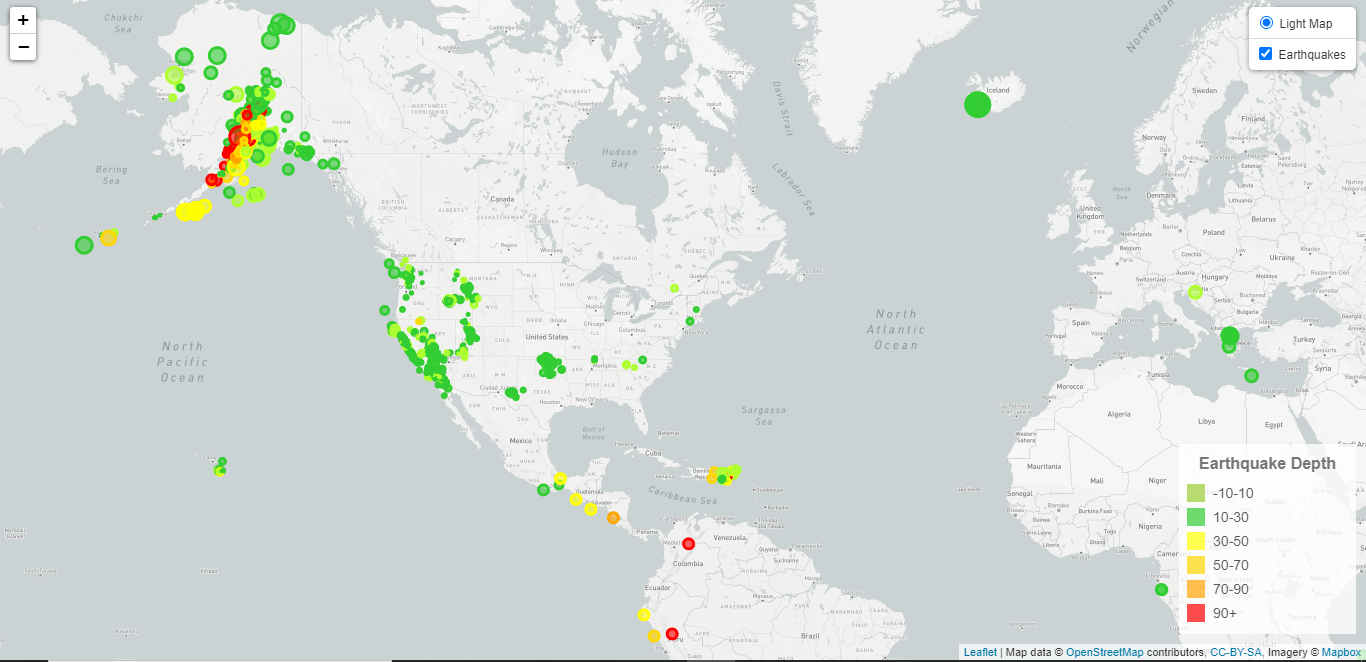
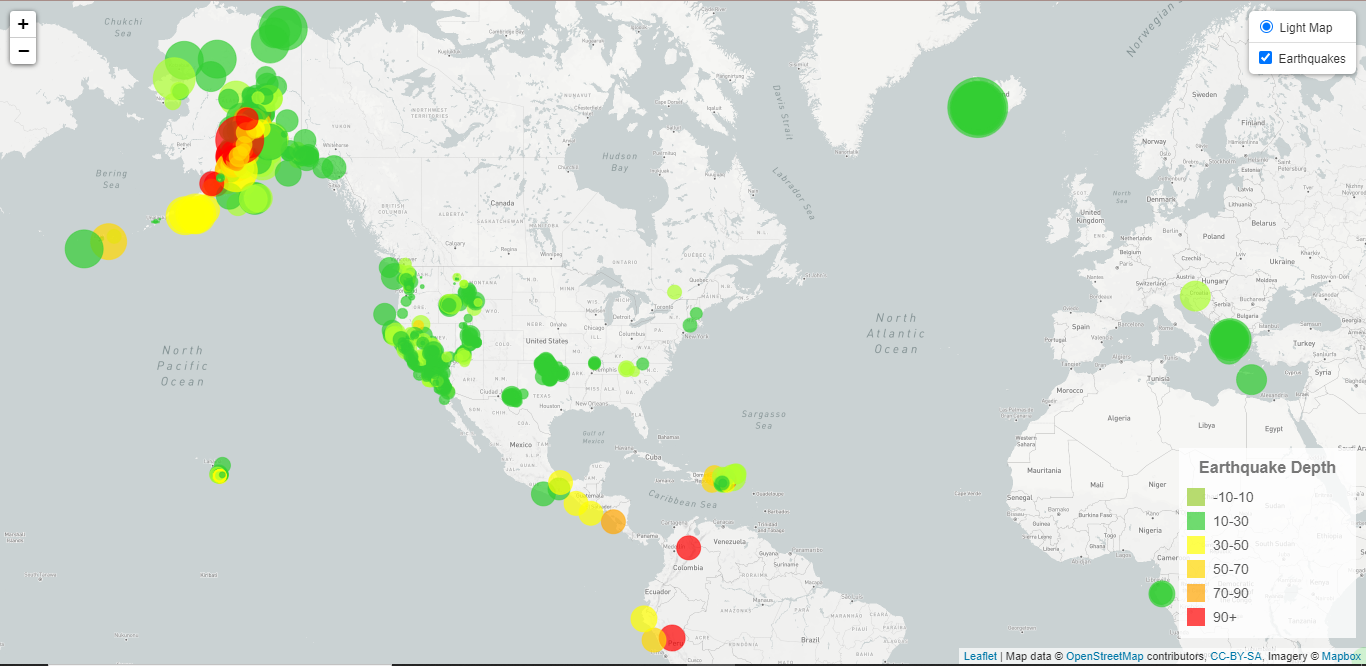
leaflet 2

diff --git a/Leaflet-Step-1/static/js/logic.js b/Leaflet-Step-1/static/js/logic.js
@@ -101,10 +101,12 @@ function createCircles(response) {
       // For each station, create a marker and bind a popup with the place name
       
       var circle = L.circle([earth[1], earth[0]] , {
-                   fillOpacity: .6,
+                   fillOpacity: .7,
                    color: chooseColor(earth[2]),
+                  //  color: "black",
                    fillColor: chooseColor(earth[2]),
-                   radius: markerSize(earths[i].properties.mag)
+                   radius: markerSize(earths[i].properties.mag),
+                   weight: 0.5
 
   
 
@@ -145,7 +147,7 @@ function chooseColor(magnitude) {
 // the markersize funcition is used to set radius of the marker on the map
 
 function markerSize(magnitude) {
-    return magnitude * 20000
+    return magnitude * 50000
   }
 
 
